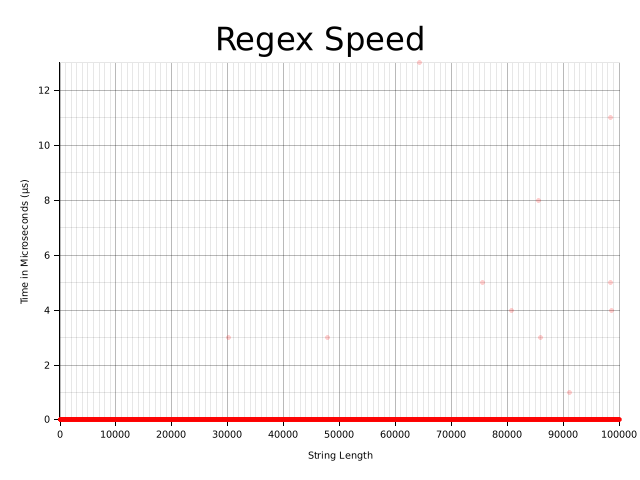
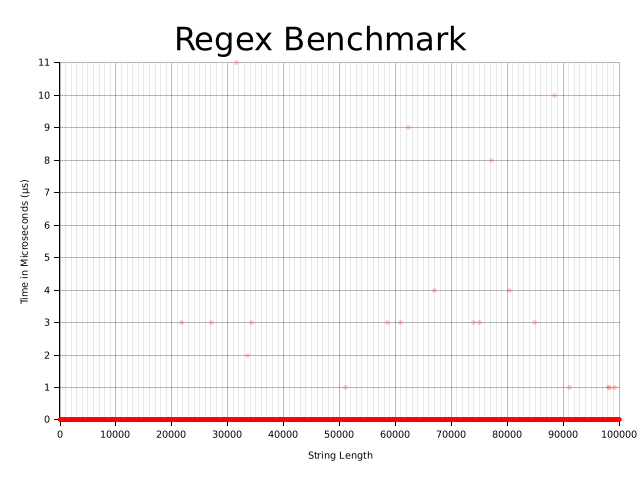
improved docs, updated renaming in few places that were missed out

diff --git a/src/graph.rs b/src/graph.rs
@@ -26,7 +26,7 @@ pub fn create(
         .x_label_area_size(40)
         .y_label_area_size(40)
         .margin(20)
-        .caption("Regex Speed", ("sans-serif", 40).into_font())
+        .caption("Regex Benchmark", ("sans-serif", 40).into_font())
         .build_cartesian_2d(0..max_x, min_y..max_y)?;
     graph
         .configure_mesh()

diff --git a/README.md b/README.md
@@ -3,7 +3,7 @@
 
 - [Regex Benchmark: Performance Visualization Tool for Regular Expressions](#regex-benchmark-performance-visualization-tool-for-regular-expressions)
   - [Description](#description)
-  - [Why?](#why)
+  - [Why Regex Performance Matters?](#why-regex-performance-matters)
   - [Examples](#examples)
   - [Installation](#installation)
     - [Linux](#linux)
@@ -14,18 +14,16 @@
 
 ## Description
 
-A utility to help visualise the performance of different regular expressions and how they scale with input size.
+Regex Benchmark is a utility tool aimed at demystifying the performance of regular expressions. It provides a visual representation of how different regex patterns perform, especially useful when dealing with complex expressions where performance implications are not immediately apparent.
 
-Typically, in software development we use Big O notation to describe performance. This is typically someone developers learn when first learning to code and is a great way to get a rough idea of how a program will scale with input size. However, this isn't always easy to do with regular expressions. For the mast majority, regular expressions feel like a black box that either works or doesn't. This tool aims to help visualise the performance of regular expressions and how they scale with input size.
+## Why Regex Performance Matters?
 
-## Why?
+Understanding the performance of regular expressions is crucial for several reasons:
 
-A good question to always ask is "why?". Why do we need to know the performance of regular expressions? It just works, right? Well, yes and no. Regular expressions are a very powerful tool, but they can also be very dangerous. It's very easy to write a regular expression that is very inefficient. This can lead to a number of issues:
-
-* **Security** - If a regular expression is inefficient, it can be used to perform a [ReDoS attack](https://owasp.org/www-community/attacks/Regular_expression_Denial_of_Service_-_ReDoS). This is where an attacker can send a malicious string to a server that will cause the server to hang or crash.
-* **Performance** - Can cause a program to run very slowly. This can cause a number of issues such as a poor user experience or a server that is unable to handle the load.
-* **Cost** - Slower performance typically leads to higher costs. In the world of cloud computing, we often just create a AWS lambda function and just forget about it. It's really easy to forget that the costs of lambda functions are based on the amount of time the function is running. If a function is running for longer than it needs to, this can lead to a higher than expected bill.
-* **Learn from Cloudflare's mistake** - [Cloudflare's Regular Expression Denial of Service](https://blog.cloudflare.com/details-of-the-cloudflare-outage-on-july-2-2019/) is a great article to read which explains how a poorly optimised regular expression caused a global outage.
+* **Security** - Avoding [ReDoS attack](https://owasp.org/www-community/attacks/Regular_expression_Denial_of_Service_-_ReDoS) attacks.
+* **Performance** - Ensuring efficient execution, crucial for user experience and server load management.
+* **Cost** - Minimising computational resources, especially in cloud-based solutions.
+* **Real-World Lessons** - Learning from incidents like [Cloudflare's global outage](https://blog.cloudflare.com/details-of-the-cloudflare-outage-on-july-2-2019/).
 
 
 ## Examples
@@ -36,20 +34,20 @@ Let's suppose I want to test the performance of the following three request expr
 2. `.*(=).*`
 3. `.?(=).*`
 
-All of these expressions are valid, and they all do the same thing. In this example, it's easy to see that the first expression is the most efficient. However, in more complex expressions, it's not always easy to see which expression is the most efficient. This is where `regex-speed` comes in.
+All of these expressions are valid, and they all do the same thing. In this example, it's easy to see that the first expression is the most efficient. However, in more complex expressions, it's not always easy to see which expression is the most efficient. This is where `regex-benchmark` comes in.
 
-We'll run test each of the regex expressions defining the following options:
+We'll run test each of the regex expressions using the following options:
 
 * `--max-length 100000` - The max string length to test will be 100,000.
 * `--step-size 10` - The step size will be 10, meaning the string length will increase by 10 each iteration.
 * `--num-tests 5` - We will run each test 5 times plotting each result onto the graph.
 * `--required-str x=xxxxxxxxxxxxxx` - The random strings that are generated will have the string `x=xxxxxxxxxxxxxx` somewhere in them.
-* `--method find` - We want to actually locate the "=" in the string. This isn't at all useful in a real life example, but it's a nice way to demonstrate the performance of the regex expressions.
+* `--method find` - We want to locate the "=" in the string. This isn't at all useful in a real life example, but it's a nice way to demonstrate the performance of the regex expressions.
 
 Let's run the tests:
 
 ```bash
-regex-speed \
+regex-benchmark \
   --regex '=' \
   --max-length 100000 \
   --step-size 10 \
@@ -61,7 +59,7 @@ regex-speed \
 ![Example 1 results](./docs/examples/img/example-test-1.png)
 
 ```bash
-regex-speed \
+regex-benchmark \
   --regex '.*(=).*' \
   --max-length 100000 \
   --step-size 10 \
@@ -73,7 +71,7 @@ regex-speed \
 ![Example 2 results](./docs/examples/img/example-test-2.png)
 
 ```bash
-regex-speed \
+regex-benchmark \
   --regex '.?(=).*' \
   --max-length 100000 \
   --step-size 10 \
@@ -88,7 +86,7 @@ Although all three expressions are valid and we can retrieve the "=" from the re
 
 The first expression is the most efficient. Although we do have a couple of outliers, the performance is very consistent giving us a good indication that the result is constant time.
 
-The second expression is the least efficient. We can see a linear growth with a increase of spread as the input size increases. **This might look like a time complexity of O(n), however this isn't actually true. The time complexity is actually O(n^3) in terms of how many steps actually need to be executed. This graph instead represents the actual time to perform the regex search**.
+The second expression is the least efficient. We can see a linear growth with a increase in spread as the input size increases. **This might look like a time complexity of O(n), however this isn't actually true. The time complexity is actually O(n^3) in terms of how many steps actually need to be executed. This graph instead represents the actual time to perform the regex search**.
 
 The final expression is the most interesting. We can see that it is slower than the first expression, but faster than the second. The biggest difference is that the spread is absolutely massive!
 
@@ -97,22 +95,22 @@ The final expression is the most interesting. We can see that it is slower than 
 
 ### Linux
 
-1. Download the latest `regex-speed` binary from [releases page](https://github.com/Salaah01/regex-benchmark/releases).
+1. Download the latest `regex-benchmark` binary from [releases page](https://github.com/Salaah01/regex-benchmark/releases).
 2. Ubuntu users will need to install additional dependencies:
     ```bash
     sudo apt install pkg-config libfreetype6-dev libfontconfig1-dev
     ```
 3. Run the binary in the terminal with the `--help` flag to see the available options:
     ```bash
-    ./regex-speed --help
+    ./regex-benchmark --help
     ```
 
 ### Windows
 
-1. Download the latest `regex-speed.exe` binary from [releases page](https://github.com/Salaah01/regex-benchmark/releases).
+1. Download the latest `regex-benchmark.exe` binary from [releases page](https://github.com/Salaah01/regex-benchmark/releases).
 2. Run the binary in Powershell/CMD with the `--help` flag to see the available options:
     ```powershell
-    .\regex-speed.exe --help
+    .\regex-benchmark.exe --help
     ```
 
 ## Usage
@@ -120,10 +118,21 @@ The final expression is the most interesting. We can see that it is slower than 
 One you have installed the binary, you can run it with the `--help` flag to see the available options:
 
 ```bash
-./regex-speed --help
+./regex-benchmark --help
 ```
 
+For a quick start, you can try running one of the regex expressions from the [examples](#examples) above:
+
+```bash
+regex-benchmark \
+  --regex '.?(=).*' \
+  --max-length 100000 \
+  --step-size 10 \
+  --num-tests 5 \
+  --required-str x=xxxxxxxxxxxxxx \
+  --method find
+```
 
 ## Contributing
 
-If you would like to contribute to the project by either reporting a bug, requesting a feature or submitting a pull request, please read the [contributing guide](./CONTRIBUTING.md).
+Contributions are welcome! Whether it's reporting bugs, suggesting features, or submitting code changes, please refer to our [contributing guide](./CONTRIBUTING.md). We appreciate contributions from developers of all skill levels.
